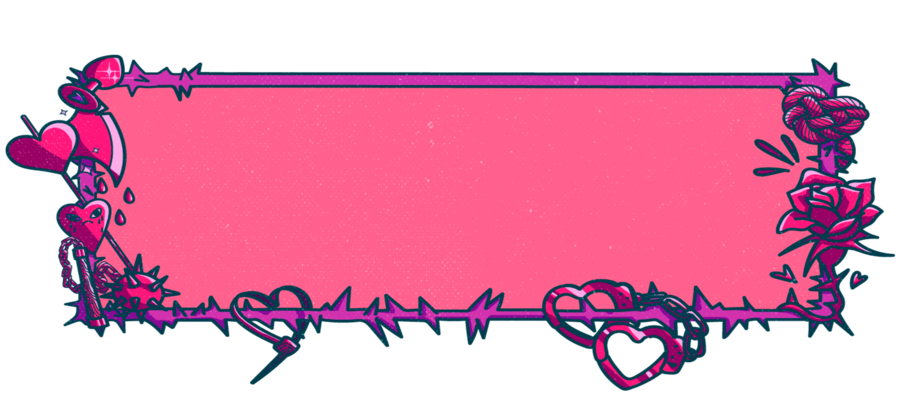
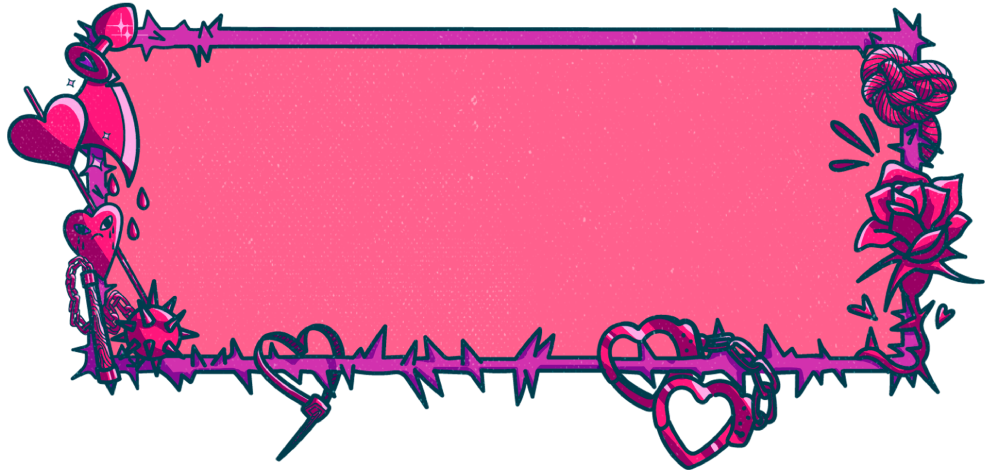
lust frame

diff --git a/styles/media.css b/styles/media.css
@@ -618,7 +618,7 @@
     }
  
     .item-rounds1 {
-        padding-left: 200px;
+        padding-left: 150px;
         max-width: 700px;
         height: 350px;
         background-size: contain;
@@ -699,10 +699,10 @@
         width: 516px;
         height: 145px;
     }
-    .sotu-container {    
+    .sotu-container {
         max-width: 555px;
-        height: 188px;
-        margin: 20px 0 0 30px;
+        height: 194px;
+        margin: 0 0 0 60px;
     }
     .hexagon-1 {
         left: 13px;
@@ -1067,8 +1067,10 @@
         right: 28px;
     }
     .drop-honey {
-        margin-bottom: 100px;
-    }
+        margin-bottom: 30px;
+        top: -60px;
+        position: relative;
+       }
     .drop-wax {
         margin-bottom: 55px;
     }

diff --git a/styles/style.css b/styles/style.css
@@ -1273,14 +1273,14 @@ summary {
         -ms-transform: translate(-5px, 230px) rotate(180deg);
     }
 }
-.drop-honey {
+.drop-honey {    
     width: 120px;
     height: 150px;
-    background: url("../image/drop-honey.png") no-repeat;
+    background: url(../image/drop-honey.png) no-repeat;
     background-size: contain;
     margin: 0 auto;
     margin-bottom: 34px;
-    margin-left: 70px;
+    margin-left: 32px;
     animation: drop 2s linear infinite;
 }
 @keyframes drop {
